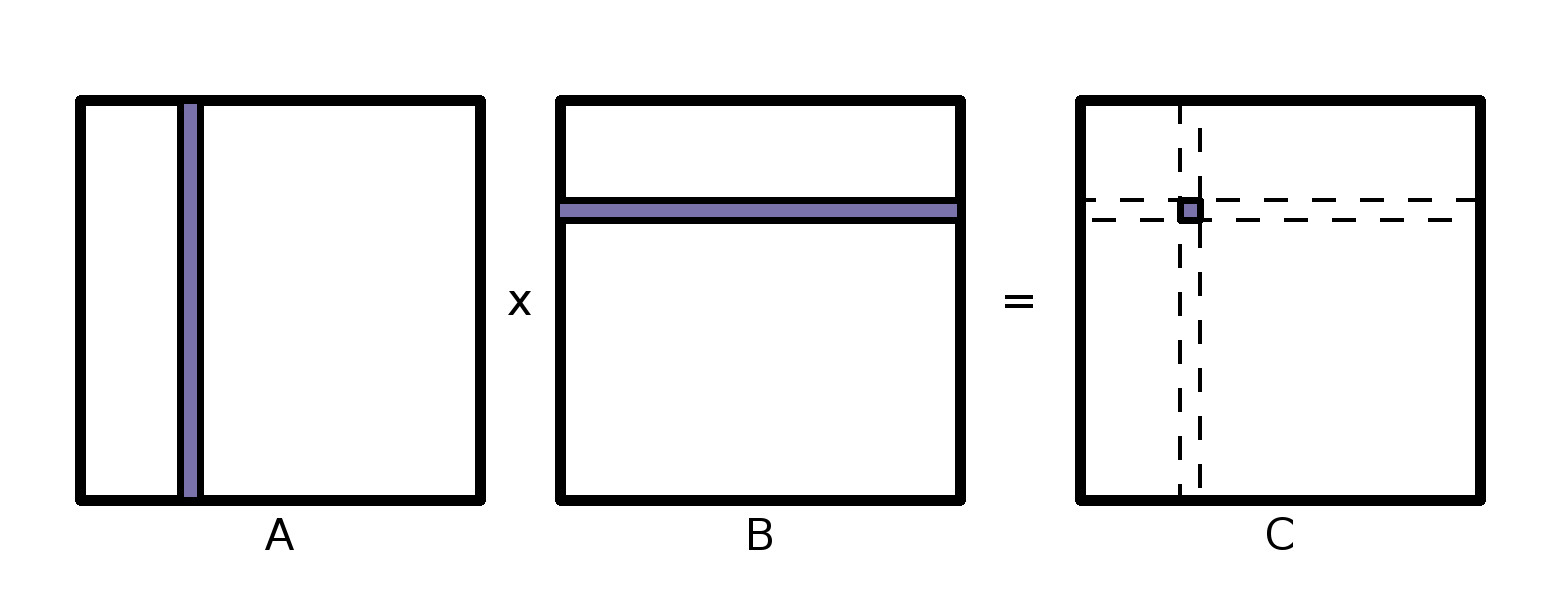
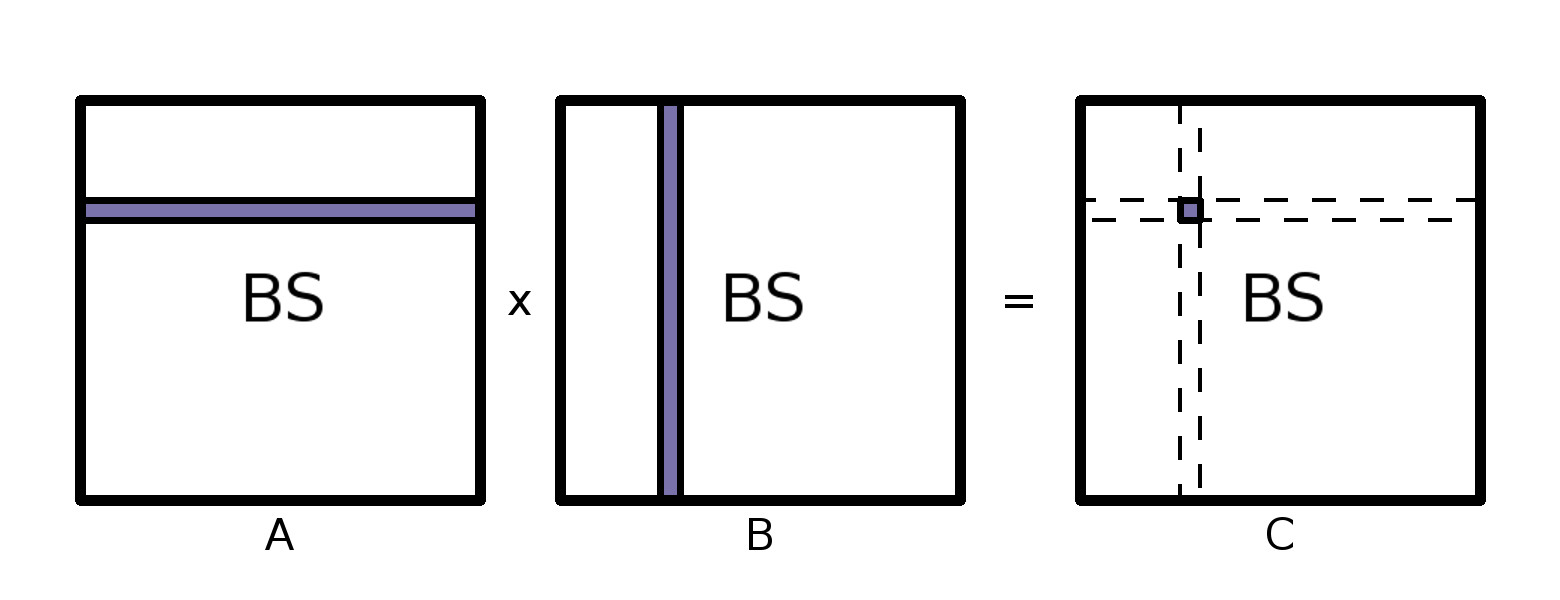
second image ready

Changed region(s): [[0.3385, 0.18, 0.6154, 0.84], [0.0308, 0.18, 0.3077, 0.84], [0.8, 0.45, 0.8615, 0.54]]

diff --git a/Report/SprawozdaniePR.tex b/Report/SprawozdaniePR.tex
@@ -194,15 +194,9 @@ Ostatecznie w linii 34 wynik przechowywany w zmiennej tymczasowej jest zapisywan
 
 \begin{figure}
   \includegraphics[width=\linewidth]{images/2.jpg}
-  \caption{}
+  \caption{Wątek w ramach bloku wątków iteruje po wierszu bloku macierzy A i kolumnie bloku macierzy B obliczając część wartości pola macierzy C, która jest zapisywana w rejestrze.}
   \label{fig:matrix2}
 \end{figure}
-
-\textit{\textbf{rysunki z opisem określające:}}
-\textit{\begin{itemize}
-\item miejsce dostępu i kolejność dostępu do danych realizowane przez poszczególne wątki, bloki
-\item wyznaczane przez wątki i bloki wartości wyników
-\end{itemize}}
 
 \begin{listing}[H]
 \inputminted{cuda}{listings/invocation_sync.cu}
